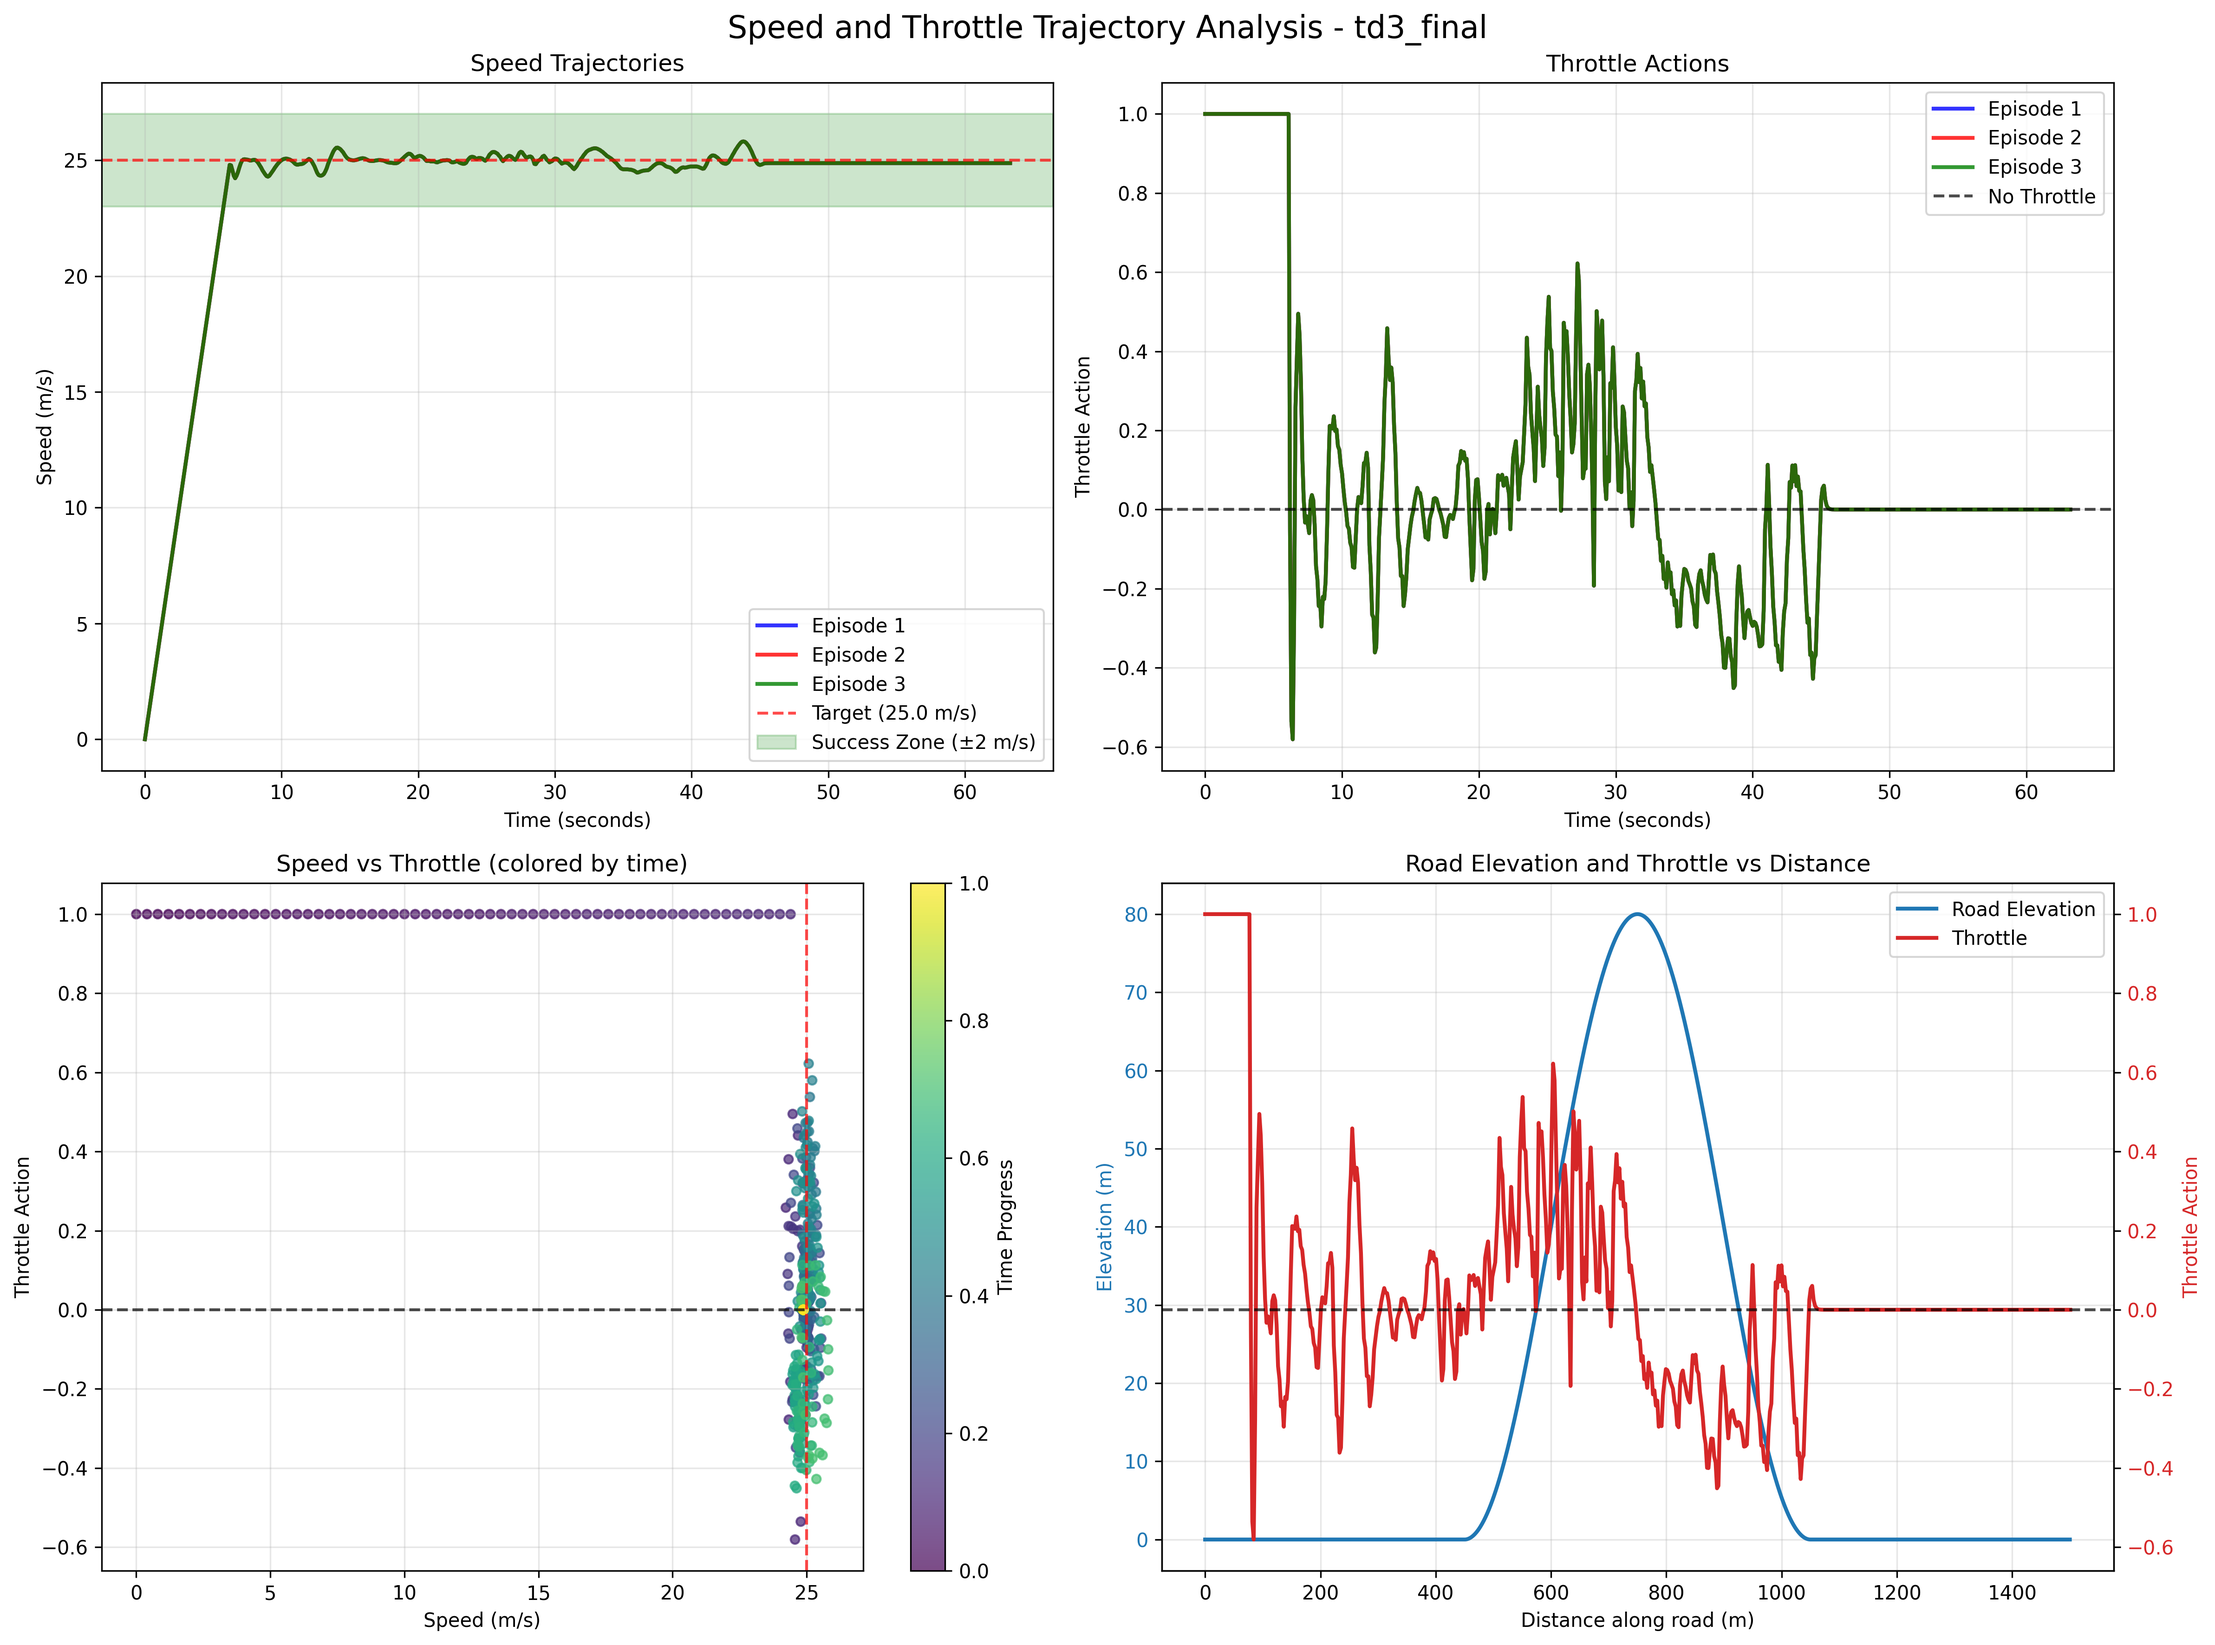
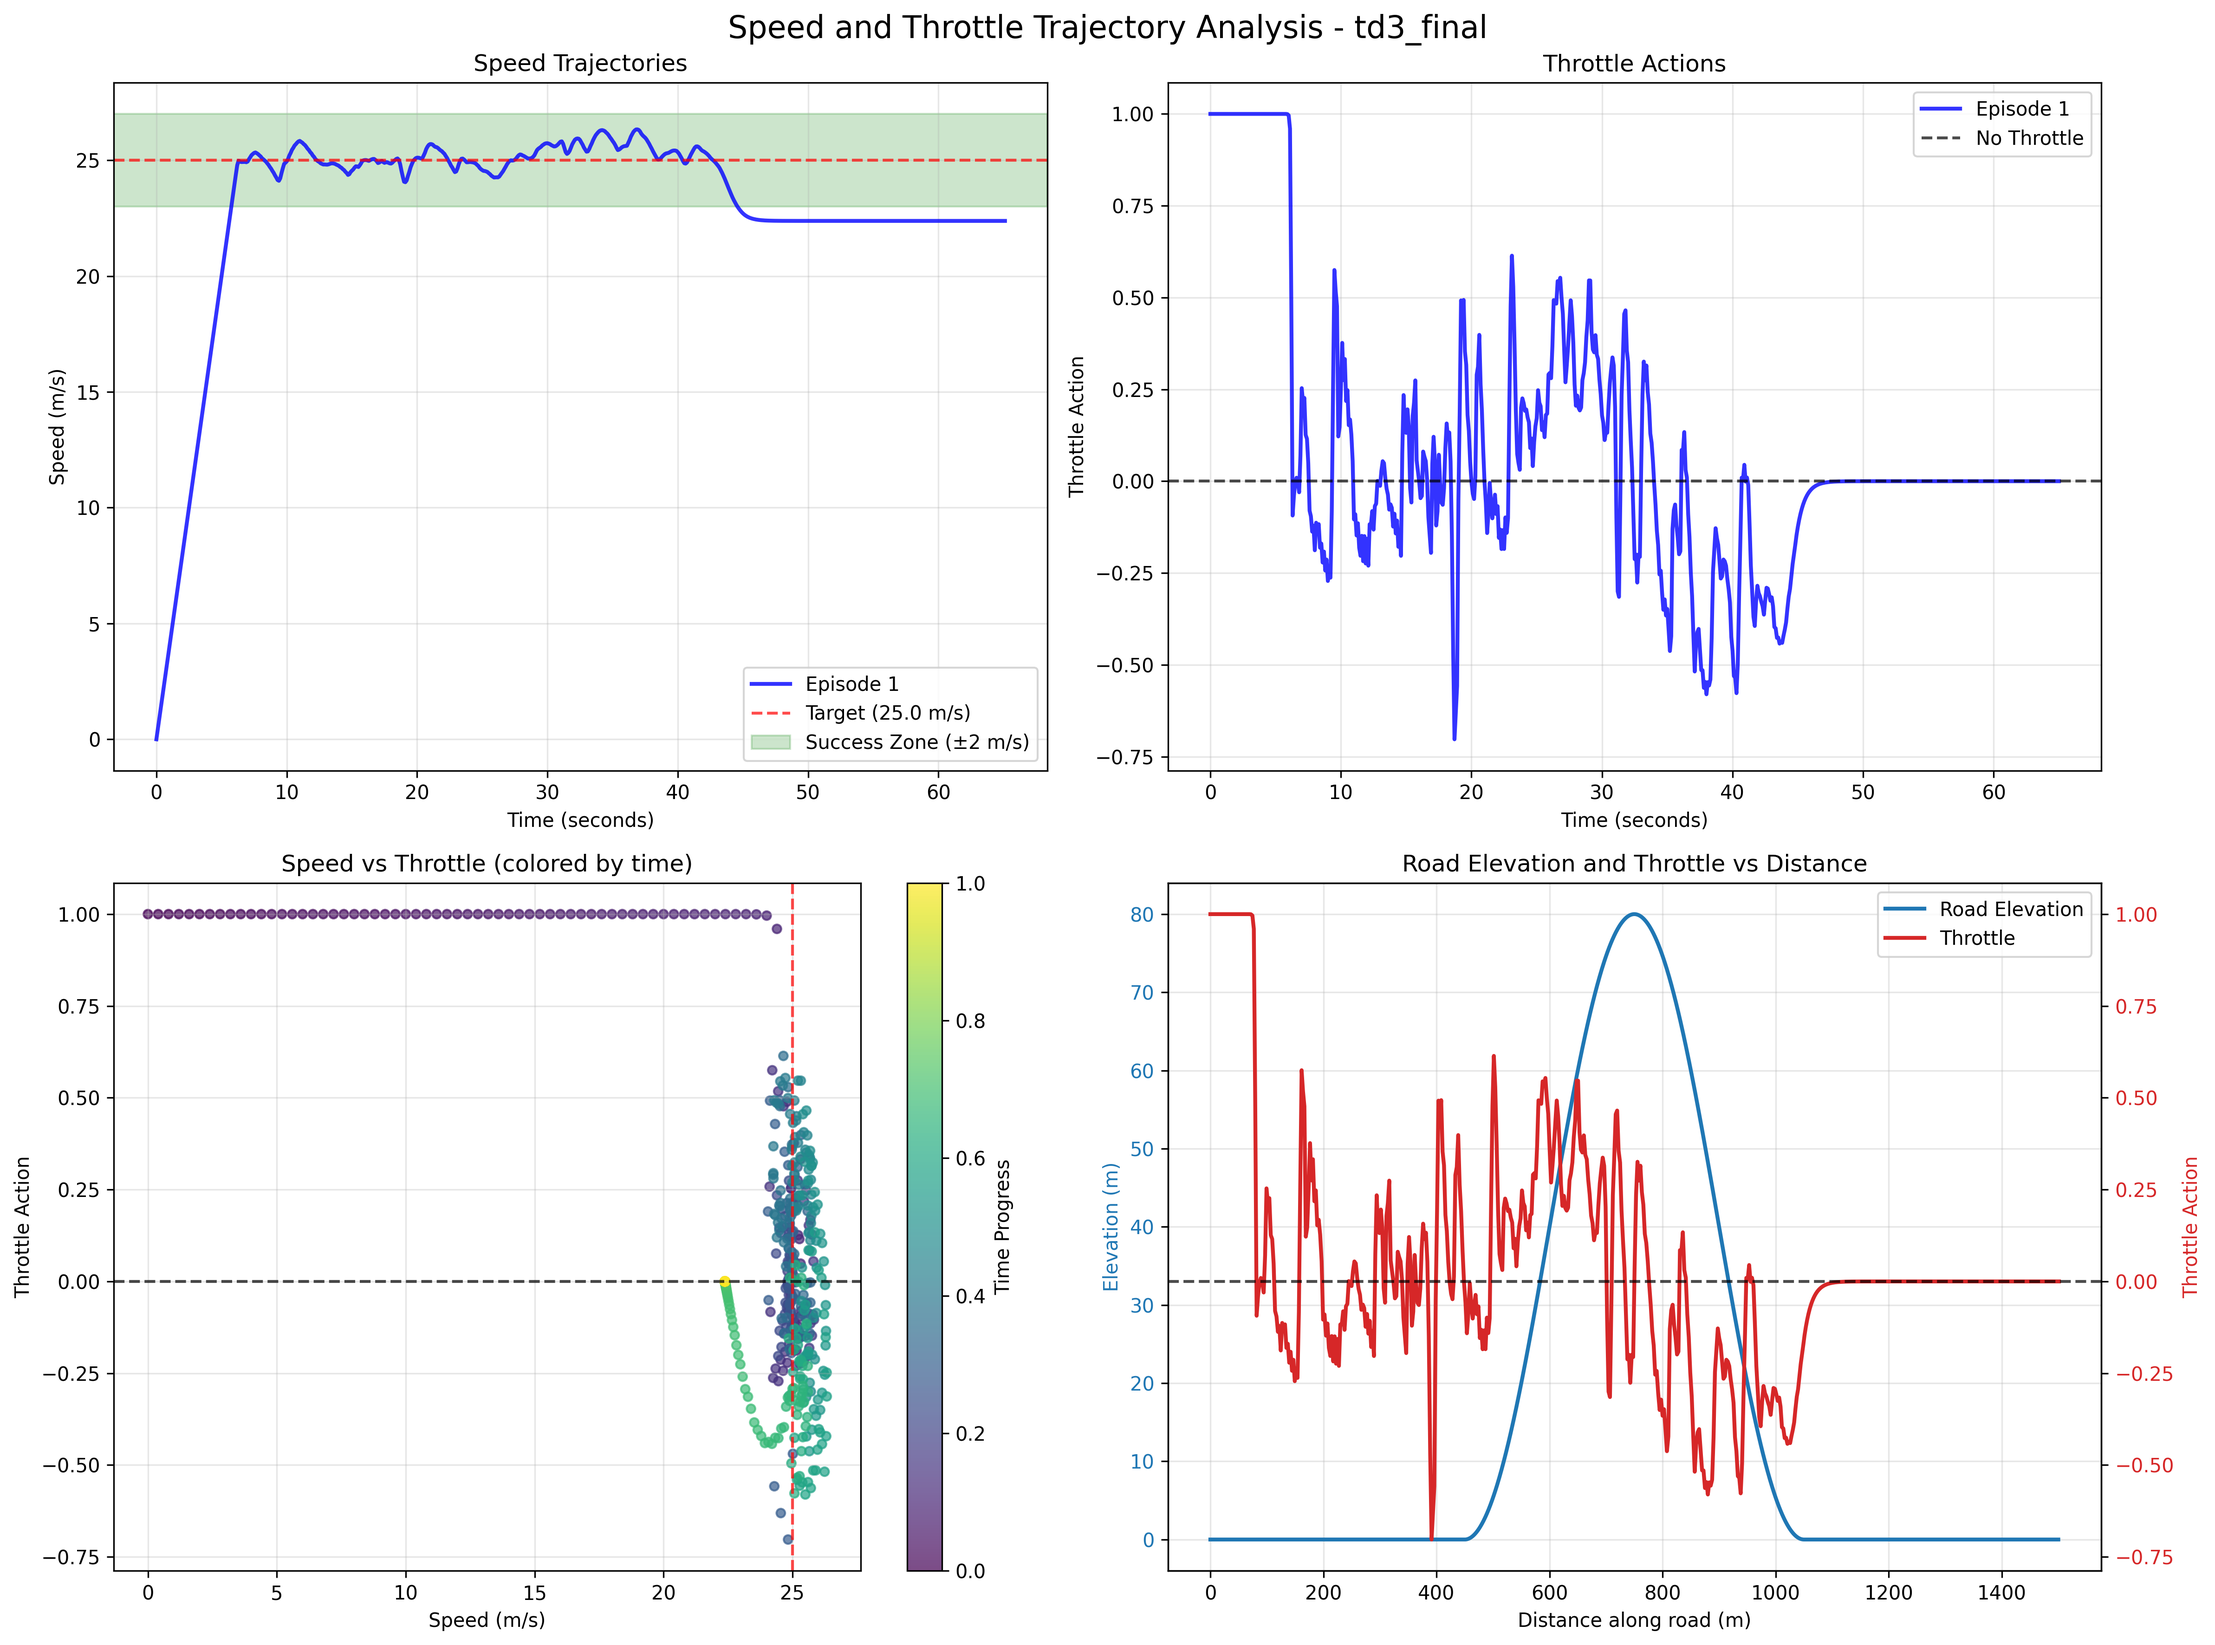
works good resutl

diff --git a/car_env.py b/car_env.py
@@ -33,7 +33,7 @@ class CarThrottleEnv(gym.Env):
         self.action_space = spaces.Box(low=-1.0, high=1.0, shape=(1,), dtype=np.float32)
 
         # Fuel usage penalty settings (only positive throttle consumes fuel)
-        self.fuel_penalty_coeff = 0.5  # penalty per unit fuel used
+        self.fuel_penalty_coeff = 8  # penalty per unit fuel used
         self.total_fuel_used = 0.0
 
     def reset(self, seed=None, options=None):
@@ -68,21 +68,25 @@ class CarThrottleEnv(gym.Env):
 
         # Reward based on speed tracking
         speed_error = abs(self.speed - self.target_speed)
-        
-        # Base reward for maintaining target speed (higher is better)
-        if speed_error < 1.0:  # Very close to target
-            reward = 10.0 - speed_error
-        elif speed_error < 3.0:  # Reasonably close
-            reward = 5.0 - speed_error  
-        else:  # Far from target
-            reward = -speed_error * 2.0
 
         # Fuel penalty: only positive throttle uses fuel, zero or braking does not
         throttle_pos = max(0.0, float(throttle))
         fuel_used = throttle_pos * self.dt
         self.total_fuel_used += fuel_used
-        # reward -= self.fuel_penalty_coeff * fuel_used
         
+        # Base reward for maintaining target speed (higher is better)
+        if speed_error < 1.0:  # Very close to target
+            reward = 10.0 - speed_error # ~10
+        elif speed_error < 3.0:  # Reasonably close
+            reward = 5.0 - speed_error  # ~5
+        else:  # Far from target
+            reward = -speed_error * 4.0
+
+  
+        # reward -= self.fuel_penalty_coeff * fuel_used
+        # reward -= -0.5 *0.5 * [-1,1] -> [-4,4]
+
+
        
         terminated = False # reached destination
         truncated = False # reached max steps limit, but not the destination
@@ -92,6 +96,8 @@ class CarThrottleEnv(gym.Env):
             # Bonus for completing route near target speed
             if speed_error < 2.0:
                 reward += 50.0
+            # reward -= 10.0 * self.total_fuel_used
+            reward += 1000 * np.exp(-self.total_fuel_used/2)
         elif self.step_count >= self.max_steps:
             truncated = True
 

diff --git a/td3.py b/td3.py
@@ -216,9 +216,9 @@ class TD3:
     
     def load(self, filename):
         # Load model with appropriate device mapping
-        self.critic.load_state_dict(torch.load(filename + "_critic", map_location=self.device))
-        self.critic_optimizer.load_state_dict(torch.load(filename + "_critic_optimizer", map_location=self.device))
-        self.actor.load_state_dict(torch.load(filename + "_actor", map_location=self.device))
-        self.actor_optimizer.load_state_dict(torch.load(filename + "_actor_optimizer", map_location=self.device))
+        self.critic.load_state_dict(torch.load(filename + "_critic", map_location=self.device, weights_only=True))
+        self.critic_optimizer.load_state_dict(torch.load(filename + "_critic_optimizer", map_location=self.device, weights_only=True))
+        self.actor.load_state_dict(torch.load(filename + "_actor", map_location=self.device, weights_only=True))
+        self.actor_optimizer.load_state_dict(torch.load(filename + "_actor_optimizer", map_location=self.device, weights_only=True))
         self.critic_target = copy.deepcopy(self.critic)
         self.actor_target = copy.deepcopy(self.actor)

diff --git a/train.py b/train.py
@@ -93,12 +93,14 @@ def main():
         else:
             episode_avg_speeds.append(0.0)
         
+        # Print total fuel used for this episode
+        
         # Print episode statistics
         if episode % 10 == 0:
             avg_reward = np.mean(episode_rewards[-10:])
             avg_speed_recent = np.mean(episode_avg_speeds[-10:])
             elapsed_time = time.time() - start_time
-            print(f"Episode: {episode}, Avg. Reward: {avg_reward:.2f}, Avg. Speed: {avg_speed_recent:.2f} m/s, Time: {elapsed_time:.2f}s")
+            print(f"Episode: {episode}, Avg. Reward: {avg_reward:.2f}, Avg. Speed: {avg_speed_recent:.2f} m/s, Time: {elapsed_time:.2f}s, Total Fuel Used: {env.total_fuel_used:.3f}")
             
             # Save model periodically
             if episode % save_frequency == 0:
